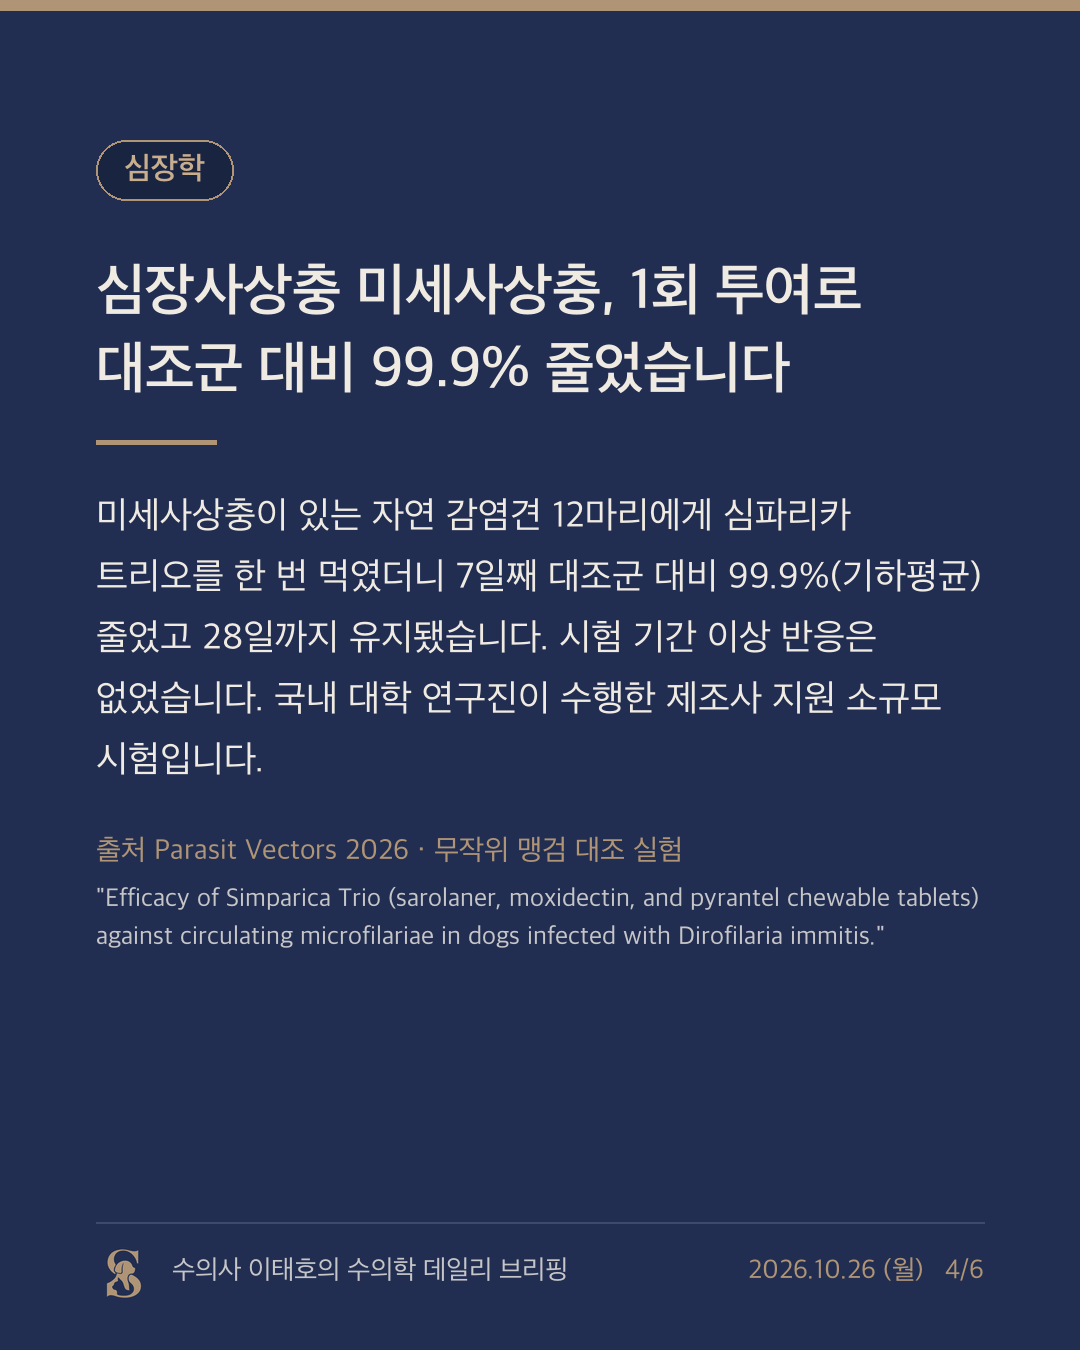
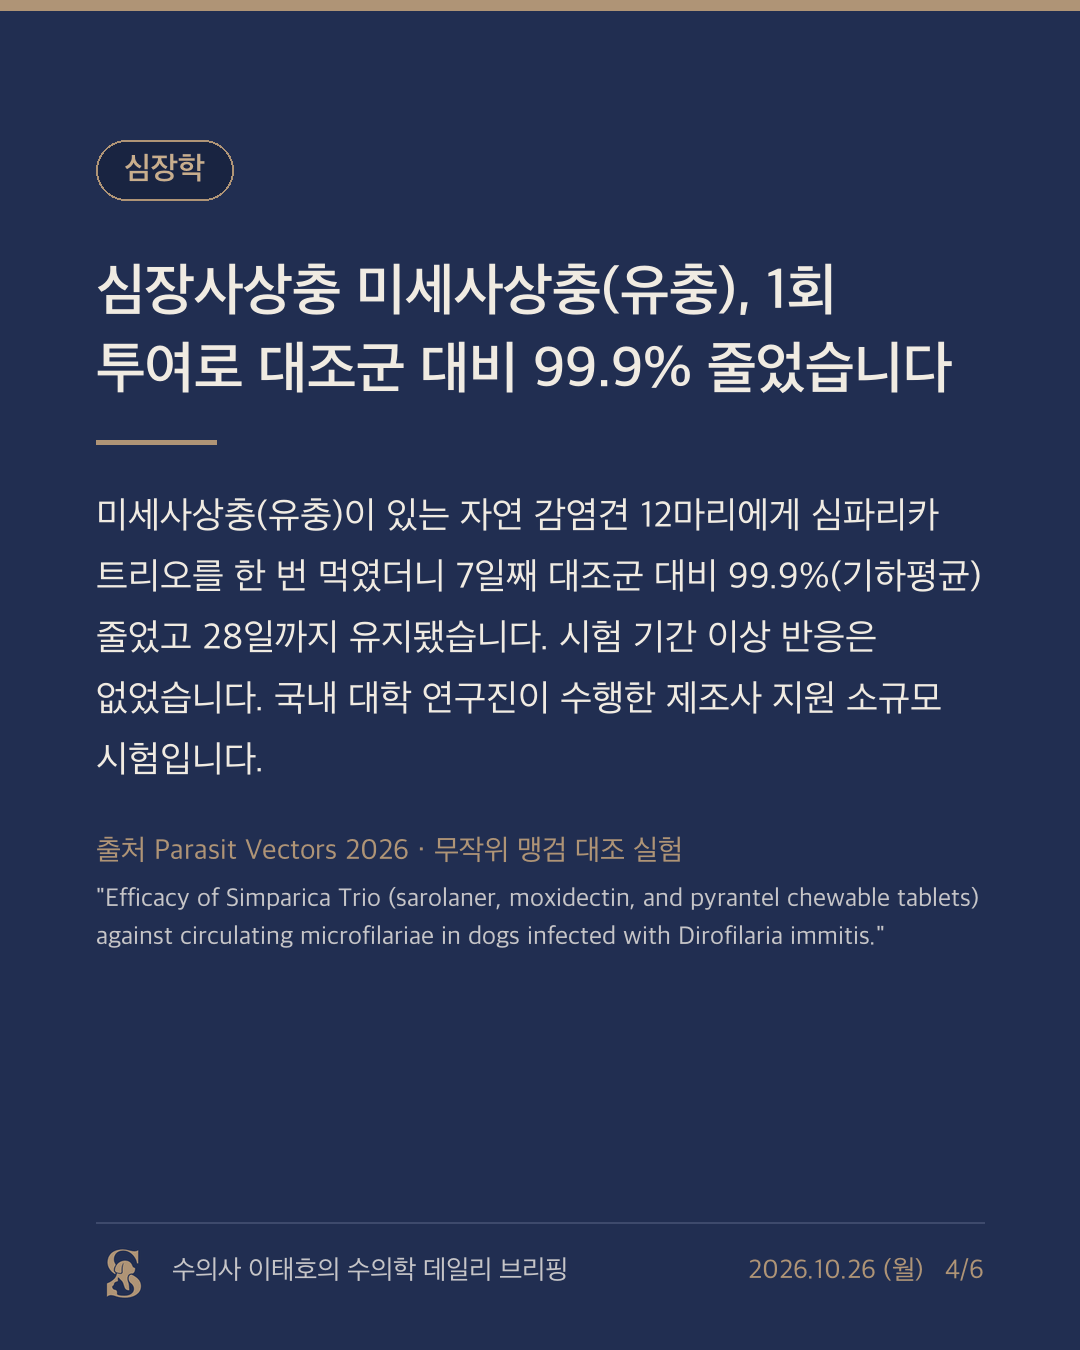
브리핑 2026-10-26: 미세사상충 첫 언급에 '(유충)' 추가 (본문·카드 표지/4·캡션)

Changed region(s): [[0.275, 0.1867, 0.8861, 0.3111], [0.2444, 0.3733, 0.8556, 0.4044], [0.0917, 0.2489, 0.2139, 0.3111]]

diff --git a/reports/2026-10-26.md b/reports/2026-10-26.md
@@ -32,9 +32,9 @@
 - **근거 수준** — 전향 방법 비교 연구(고양이 45마리)
 - **교신저자** — J Novo Matos (Department of Veterinary Medicine, University of Cambridge) · 심근병증 23편(인용 292회)
 
-### 심장사상충 양성견의 미세사상충, 심파리카 트리오 1회 투여 7일 만에 대조군 대비 99.9% 감소
+### 심장사상충 양성견의 미세사상충(유충), 심파리카 트리오 1회 투여 7일 만에 대조군 대비 99.9% 감소
 
-미세사상충은 모기가 다른 개로 감염을 옮기는 통로라서, 양성견을 치료하는 동안에도 혈중 미세사상충을 줄이는 일이 중요하다. 조에티스가 지원하고 전남대학교 수의대 연구진이 수행한 무작위 맹검 대조 실험에서, 미세사상충이 순환하는 자연 감염견 12마리에게 심파리카 트리오(사롤라너 1.2 mg/kg, 목시덱틴 24 µg/kg, 피란텔 5 mg/kg 최소 용량)를 한 번 먹이고 투여하지 않은 10마리와 28일간 매주 비교했다.
+미세사상충(유충)은 모기가 다른 개로 감염을 옮기는 통로라서, 양성견을 치료하는 동안에도 혈중 미세사상충을 줄이는 일이 중요하다. 조에티스가 지원하고 전남대학교 수의대 연구진이 수행한 무작위 맹검 대조 실험에서, 미세사상충이 순환하는 자연 감염견 12마리에게 심파리카 트리오(사롤라너 1.2 mg/kg, 목시덱틴 24 µg/kg, 피란텔 5 mg/kg 최소 용량)를 한 번 먹이고 투여하지 않은 10마리와 28일간 매주 비교했다.
 
 투여 7일째 미세사상충 수가 대조군보다 뚜렷하게 줄어 기하평균 기준 99.9%(산술평균 98.9%)의 효과를 보였고, 28일째까지 기하평균 99.9% 이상(산술평균 99.5% 이상)이 유지됐다. 시험 기간 동안 이상 반응은 기록되지 않았다. 저자 7명 중 5명이 조에티스 직원이다.
 
